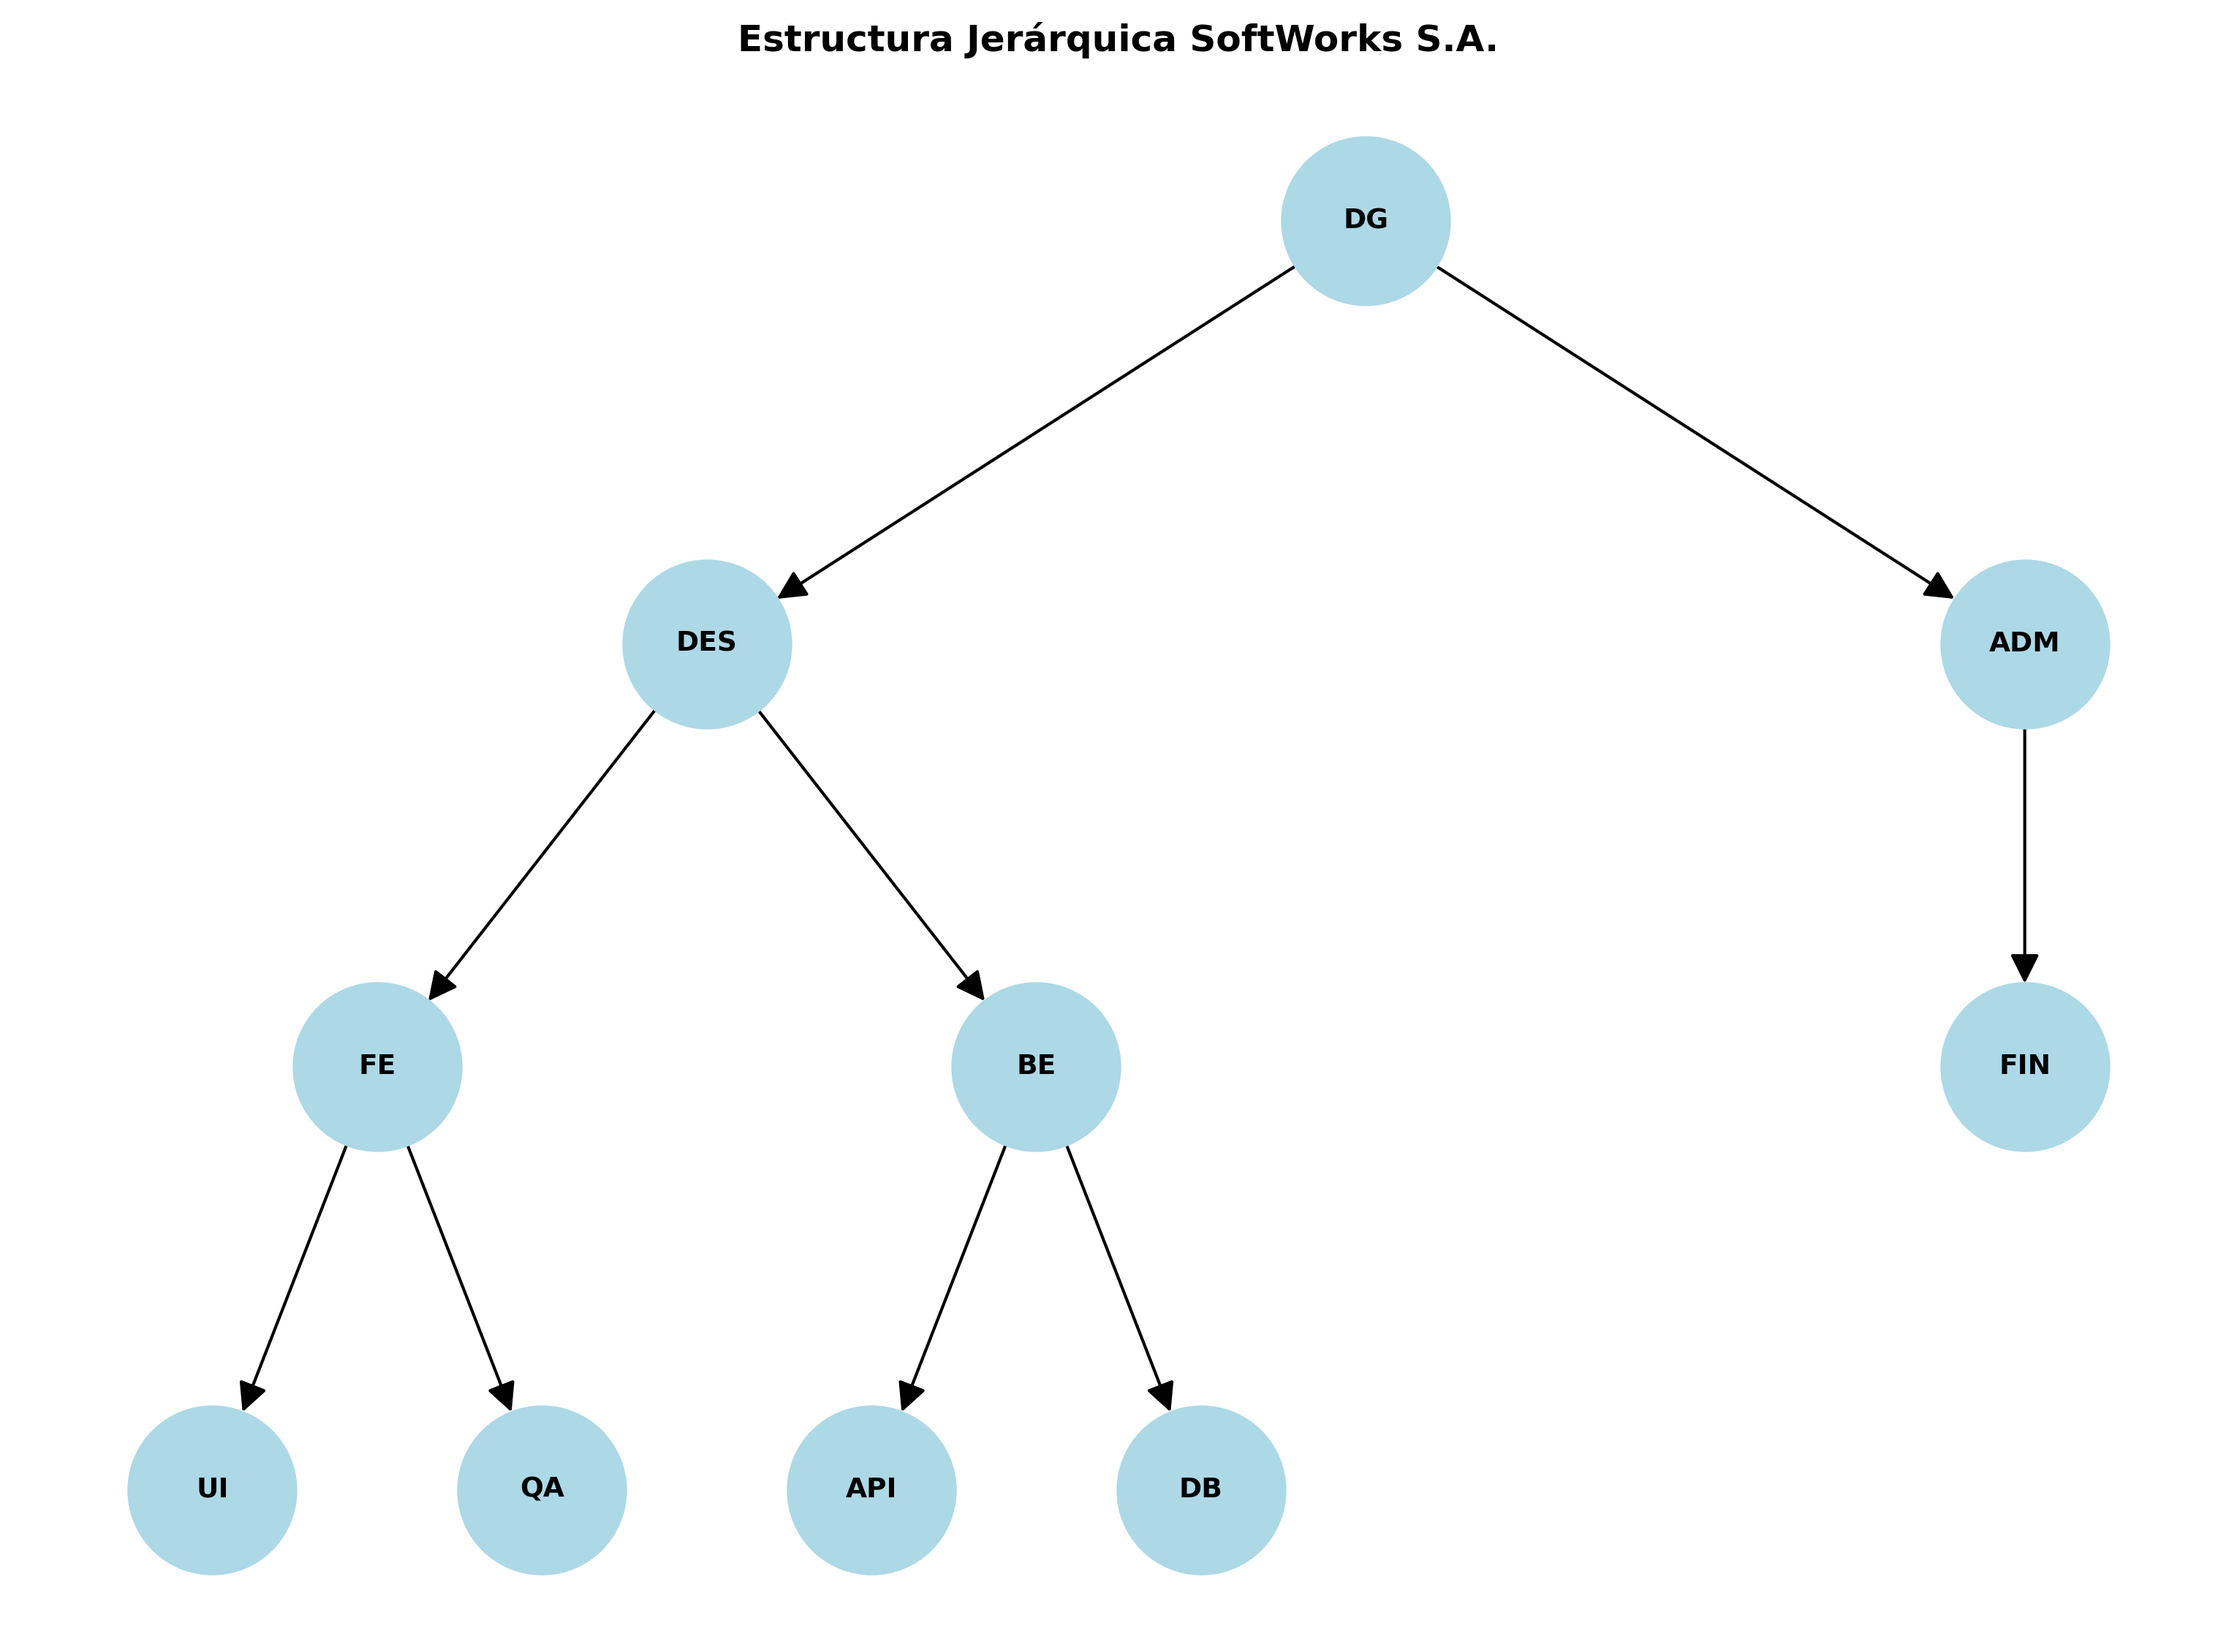
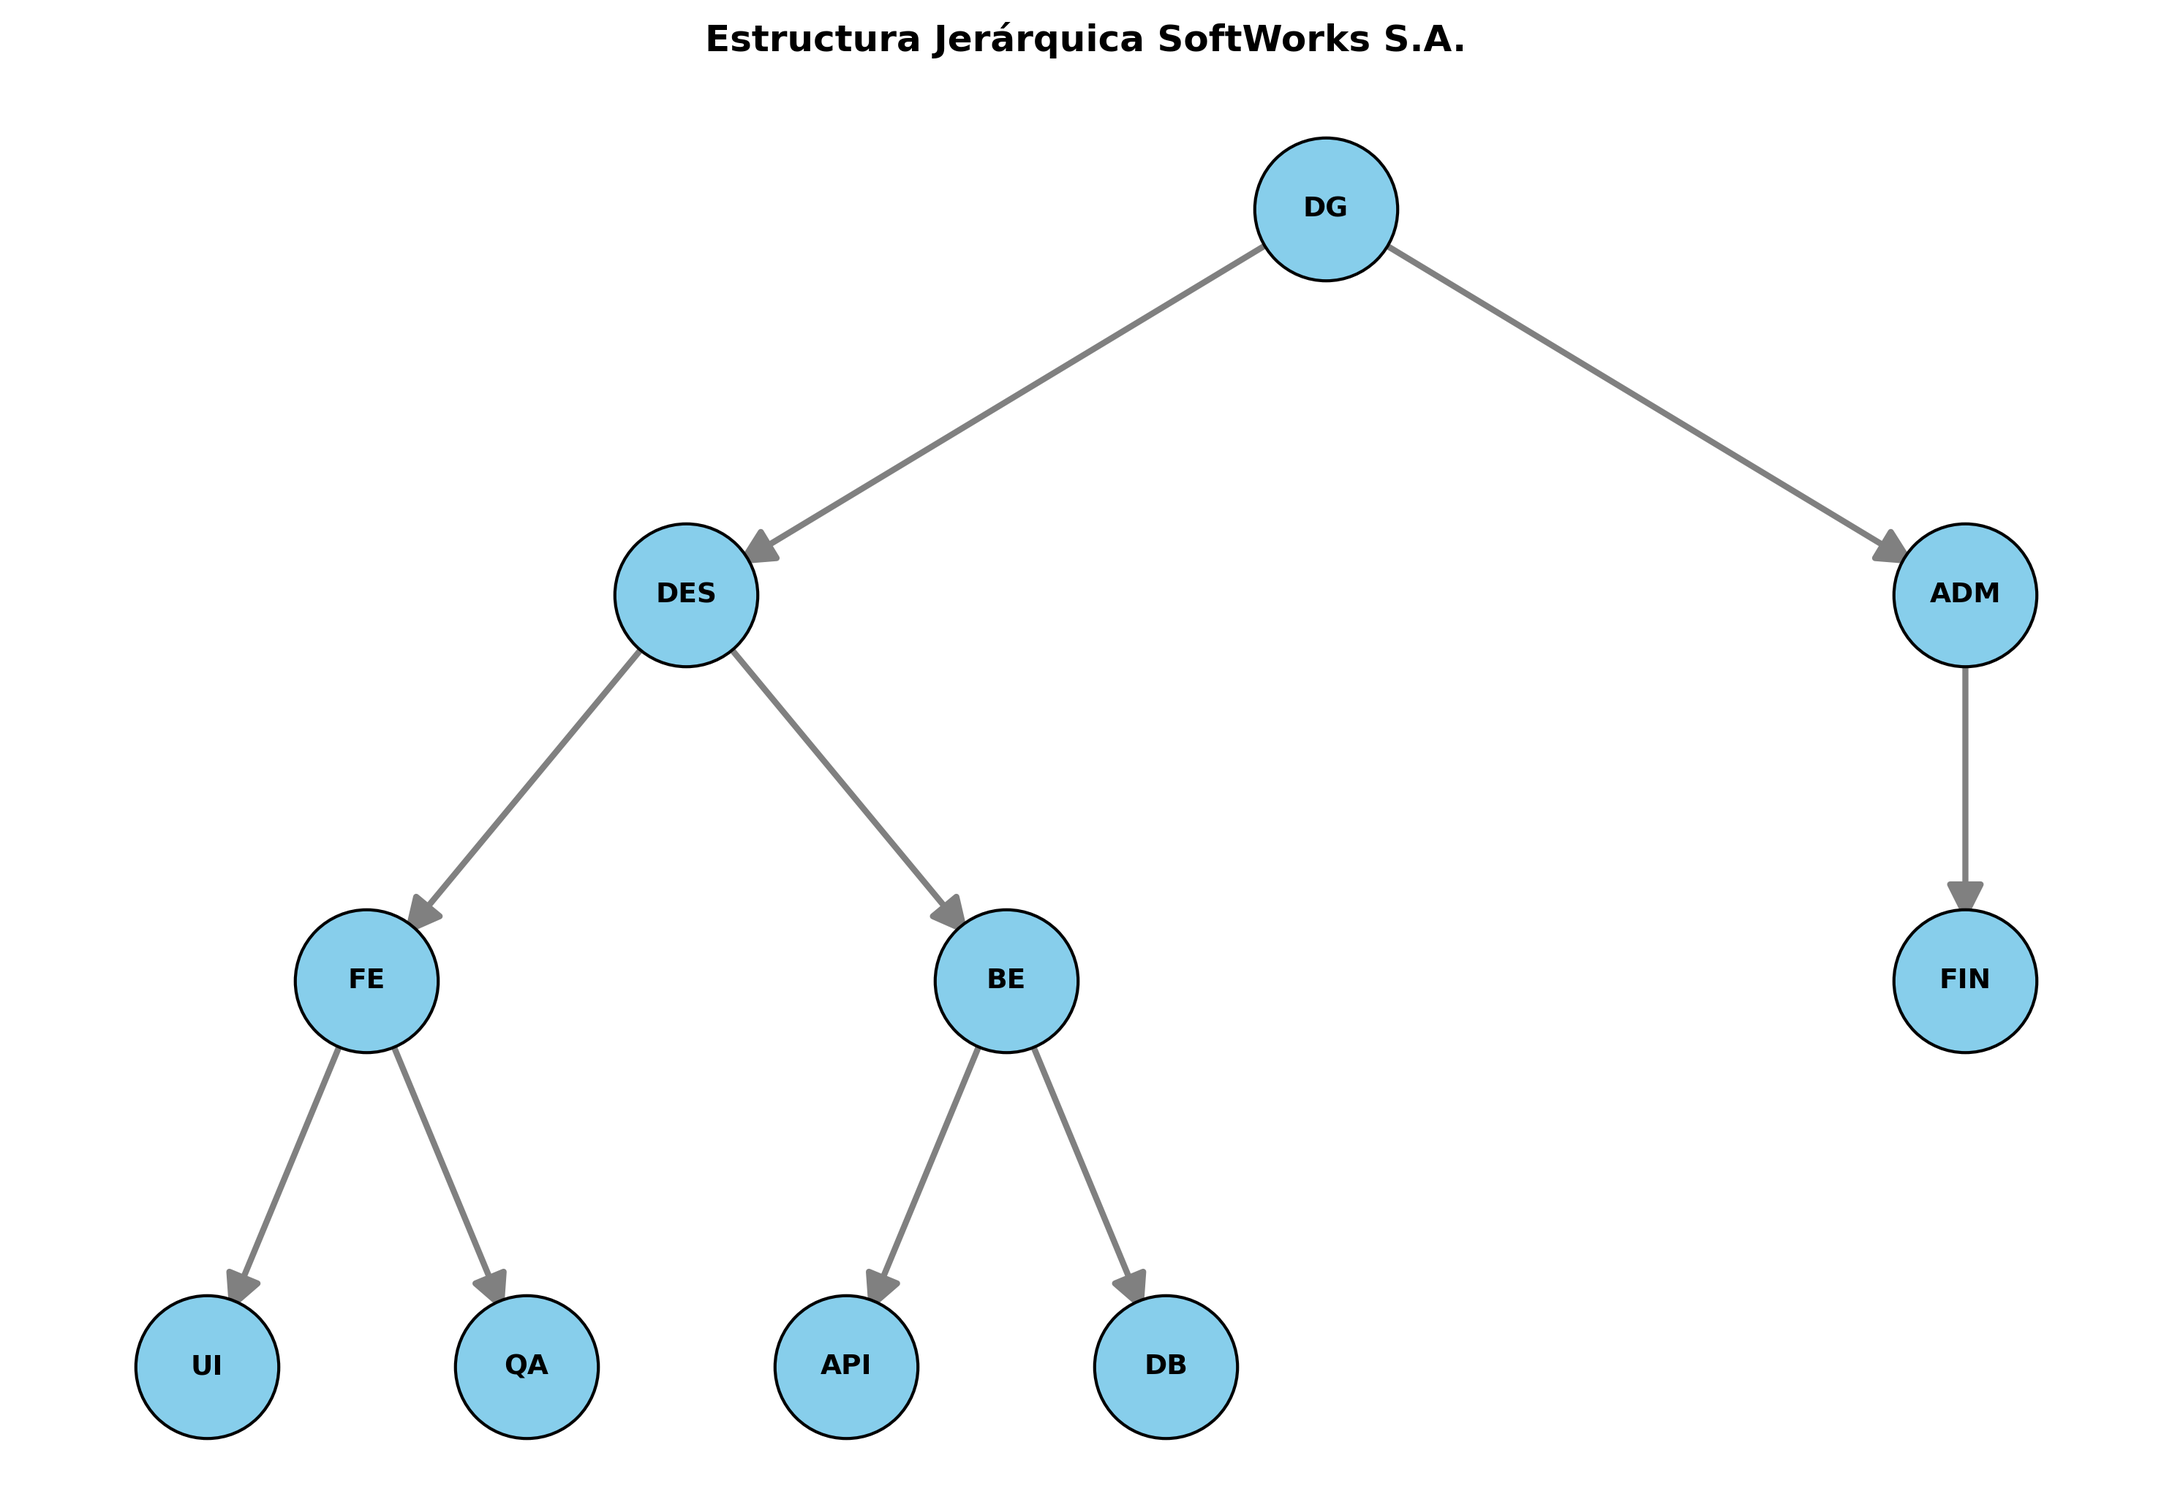
pj_softworks-fix

diff --git a/graph_theory/pj_softworks/graph_softworks.py b/graph_theory/pj_softworks/graph_softworks.py
@@ -40,18 +40,20 @@ def generar_organigrama():
         'UI': (-7, 1), 'QA': (-5, 1), 'API': (-3, 1), 'DB': (-1, 1)
     }
 
+    TAMANO_NODO = 1500
+
     plt.figure(figsize=(10, 7))
 
     # Dibujar nodos
-    #nx.draw_networkx_nodes(G, pos, node_size=2200, node_color='#87CEEB', edgecolors='black')
+    nx.draw_networkx_nodes(G, pos, node_size=2200, node_color='#87CEEB', edgecolors='black')
 
     # Dibujar etiquetas
-    #nx.draw_networkx_labels(G, pos, font_size=9, font_weight='bold')
+    nx.draw_networkx_labels(G, pos, font_size=9, font_weight='bold')
 
-    # Dibujar aristas CON FLECHAS visibles (no me funciono) TODO
-    #nx.draw_networkx_edges(G, pos, arrows=True, arrowsize=20, edge_color='gray', width=2)
+    # Dibujar aristas CON FLECHAS visibles (fixed)
+    nx.draw_networkx_edges(G, pos, node_size=TAMANO_NODO, arrows=True, arrowsize=25, edge_color='gray', width=2)
     
-    nx.draw(G, pos, with_labels=True, node_size=3000, node_color='lightblue', font_size=9, font_weight='bold', arrows=True, arrowsize=20)
+    #nx.draw(G, pos, with_labels=True, node_size=3000, node_color='lightblue', font_size=9, font_weight='bold', arrows=True, arrowsize=20)
 
     guardar_imagen("Estructura Jerárquica SoftWorks S.A.", "1_organigrama.png")
 
